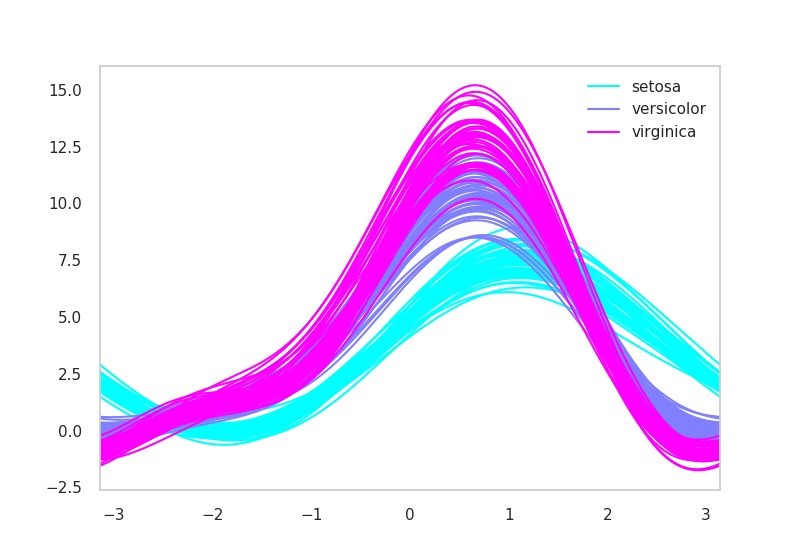
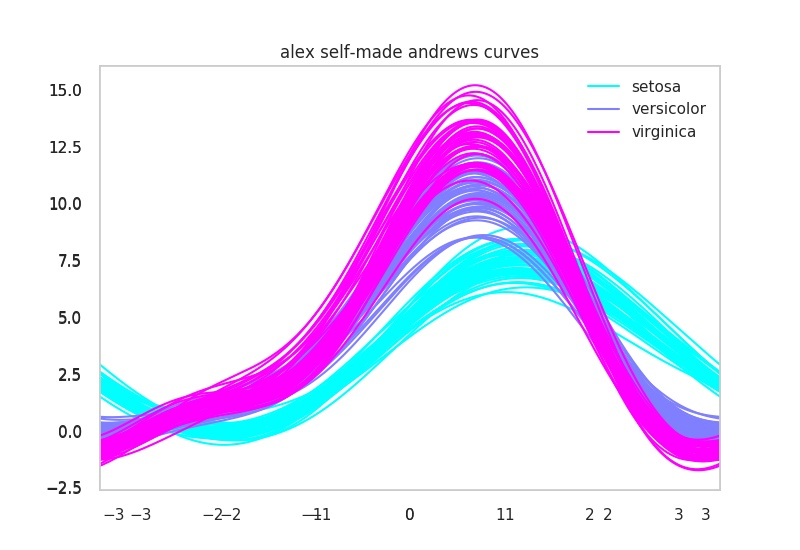
add principles analysis of various plots

diff --git a/iris.py b/iris.py
@@ -61,7 +61,7 @@ for s in iris_samples[101:150]:
     plt.plot(theta, alex_andrews_curves(s, theta), 'b')
     
 plt.title('alex self-made andrews curves')
-plt.show()
+# plt.show()
 
 plotting.andrews_curves(iris, 'species',colormap='cool')
 plt.savefig('andrews_curves.jpg')
@@ -105,7 +105,7 @@ sns.stripplot(x='species', y='sepal_length', data=iris, jitter= True, edgecolor=
 # set colors
 antV = ['#1890FF', '#2FC25B', '#FACC14', '#223273', '#8543E0', '#13C2C2', '#3436c7', '#F04864'] 
 
-# draw violin plot，竖轴表示，横轴表示，提琴图综合箱线图与密度图的优点，中间白点表示中位数，黑色粗线上下分别表示75%、25%分位数，黑色细线的上下分别表示max，min，超出黑色细线范围的为异常点；黑色粗线+黑色细线总体表示95%置信区间【为何？】；可以观察概率密度分布是单峰，双峰，多峰【unimodal, bimodal还是multimodal，分布多峰，双峰意味着某个随机变量的分布中两个高频被一个低频分割开；】
+# draw violin plot，竖轴表示，横轴表示，提琴图综合箱线图与密度图的优点，中间白点表示中位数，黑色粗线上下分别表示75%、25%分位数，黑色细线的上下分别表示max，min，超出黑色细线[叫做须]范围的为异常点；黑色粗线+黑色细线总体表示95%置信区间【为何？】；可以观察概率密度分布是单峰[偏态分布哪边少是哪边偏，注意偏态分布中三个指标参数：均值、众数、中位数]，双峰，多峰【unimodal, bimodal还是multimodal，分布多峰，双峰意味着某个随机变量的分布中两个高频被一个低频分割开；】外部形状为核密度估计，在概率论中用来估计未知的密度函数，属于非参数检验方法之一；
 f, axes = plt.subplots(2, 2, figsize=(8, 8), sharex=True)
 sns.despine(left=True)
 
@@ -158,9 +158,16 @@ fig=sns.heatmap(iris.corr(), annot=True, cmap='GnBu', linewidths=1, linecolor='k
 plt.savefig('heatmap.jpg')
 # plt.show()
 
-# kde plot , creates and visualizes a kernel density estimate of the underlying feature
+# kde plot , creates and visualizes a kernel density estimate of the underlying feature，kde图是核密度图【kernel density estimation】，作用是给定一个样本集，输出样本的分布密度函数，解决这个问题有2个办法，第一个是参数估计法，根据先验知识假定随机变量的分布模型，然后使用数据集去拟合模型的参数；第二个方法是非参数估计法，  
 sns.FacetGrid(iris, hue='species', size=6).map(sns.kdeplot, 'sepal_width').add_legend()
 # plt.show()
+
+
+# 直方图
+n,bins, patches = plt.hist(iris['sepal_length'])
+plt.title('alex histogram')
+plt.show()
+
 
 
 # parallel_coordinates
